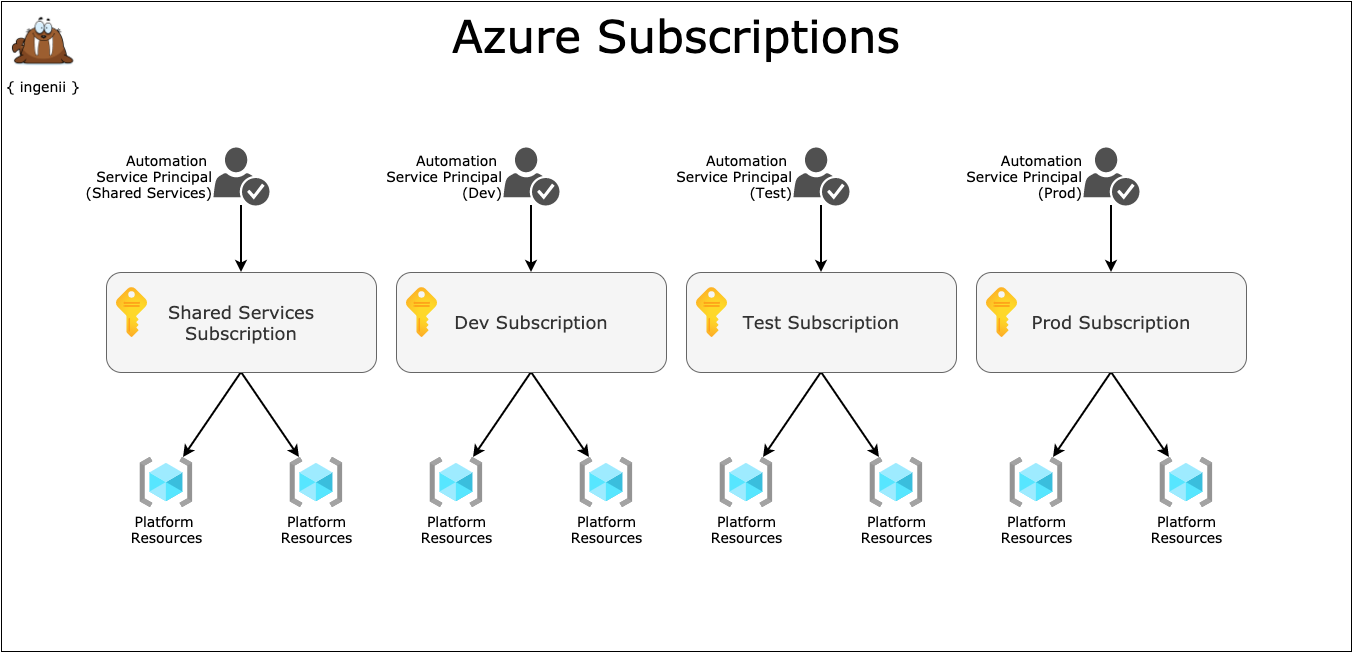
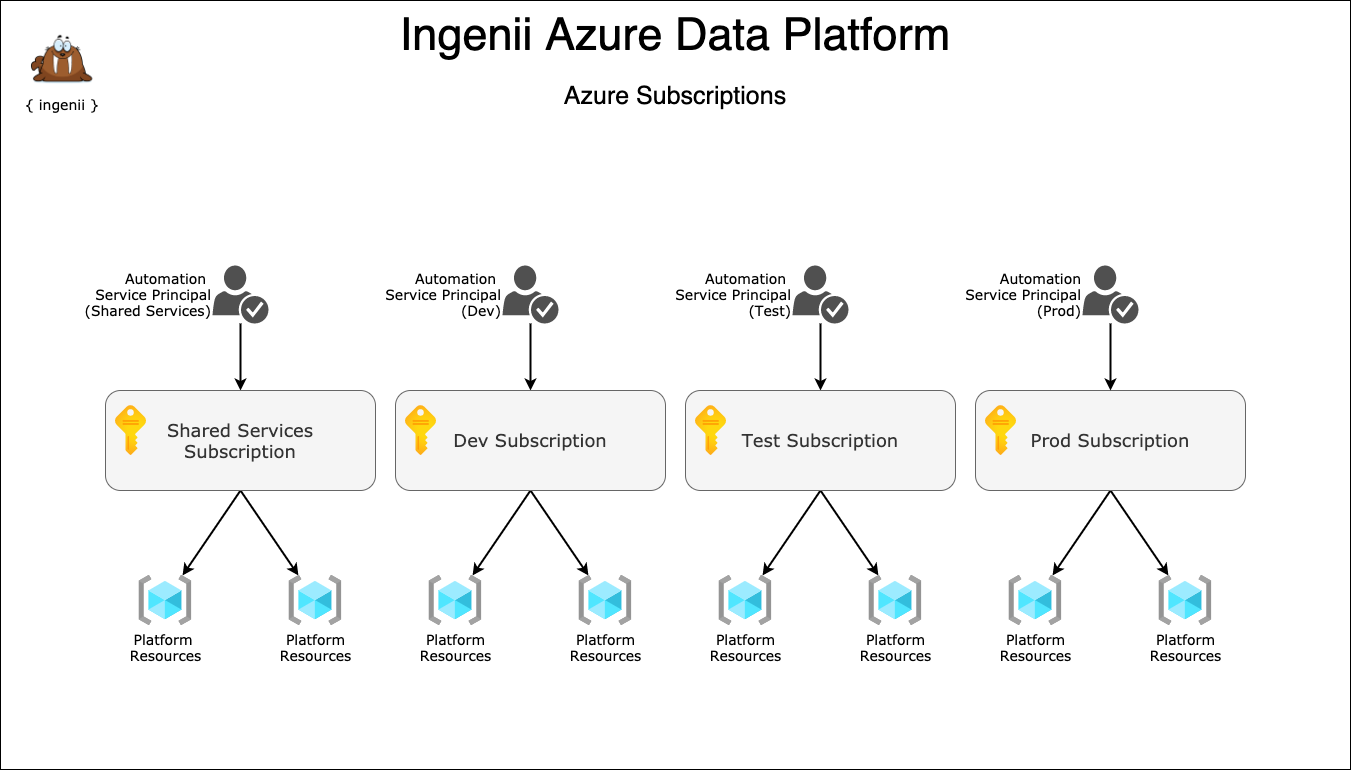
save: checkpoint

diff --git a/docs/platform_design.md b/docs/platform_design.md
@@ -5,9 +5,11 @@
 - [Overview](#overview)
 - [Definitions and Acronyms](#definitions-and-acronyms)
 - [Architectural Design](#architectural-design)
-- [Data Flow](#data-flow)
-- [Network Flow](#network-flow)
-- [Infrastructure Environments](#infrastructure-environments)
+  - [Azure Subscriptions](#azure-subscriptions)
+  - [Azure Resource Groups](#azure-resource-groups)
+  - [Network Flow](#network-flow)
+  - [Data Flow](#data-flow)
+  - [Infrastructure Environments](#infrastructure-environments)
 - [Infrastructure As Code](#infrastructure-as-code)
   - [Code Structure](#code-structure)
 - [Costs](#costs)
@@ -25,15 +27,21 @@ TODO
 
 ![Platform High Level Architecture](./assets/adp-design-architecture.png)
 
-## Data Flow
+### Azure Subscriptions
 
-TODO
+![Azure Subscriptions](assets/adp-design-subscriptions.png)
 
-## Network Flow
+### Azure Resource Groups
+
+### Network Flow
 
 ![](assets/adp-design-network-flow.png)
 
-## Infrastructure Environments
+### Data Flow
+
+TODO
+
+### Infrastructure Environments
 
 ![](assets/adp-design-infra-environments.png)
 
